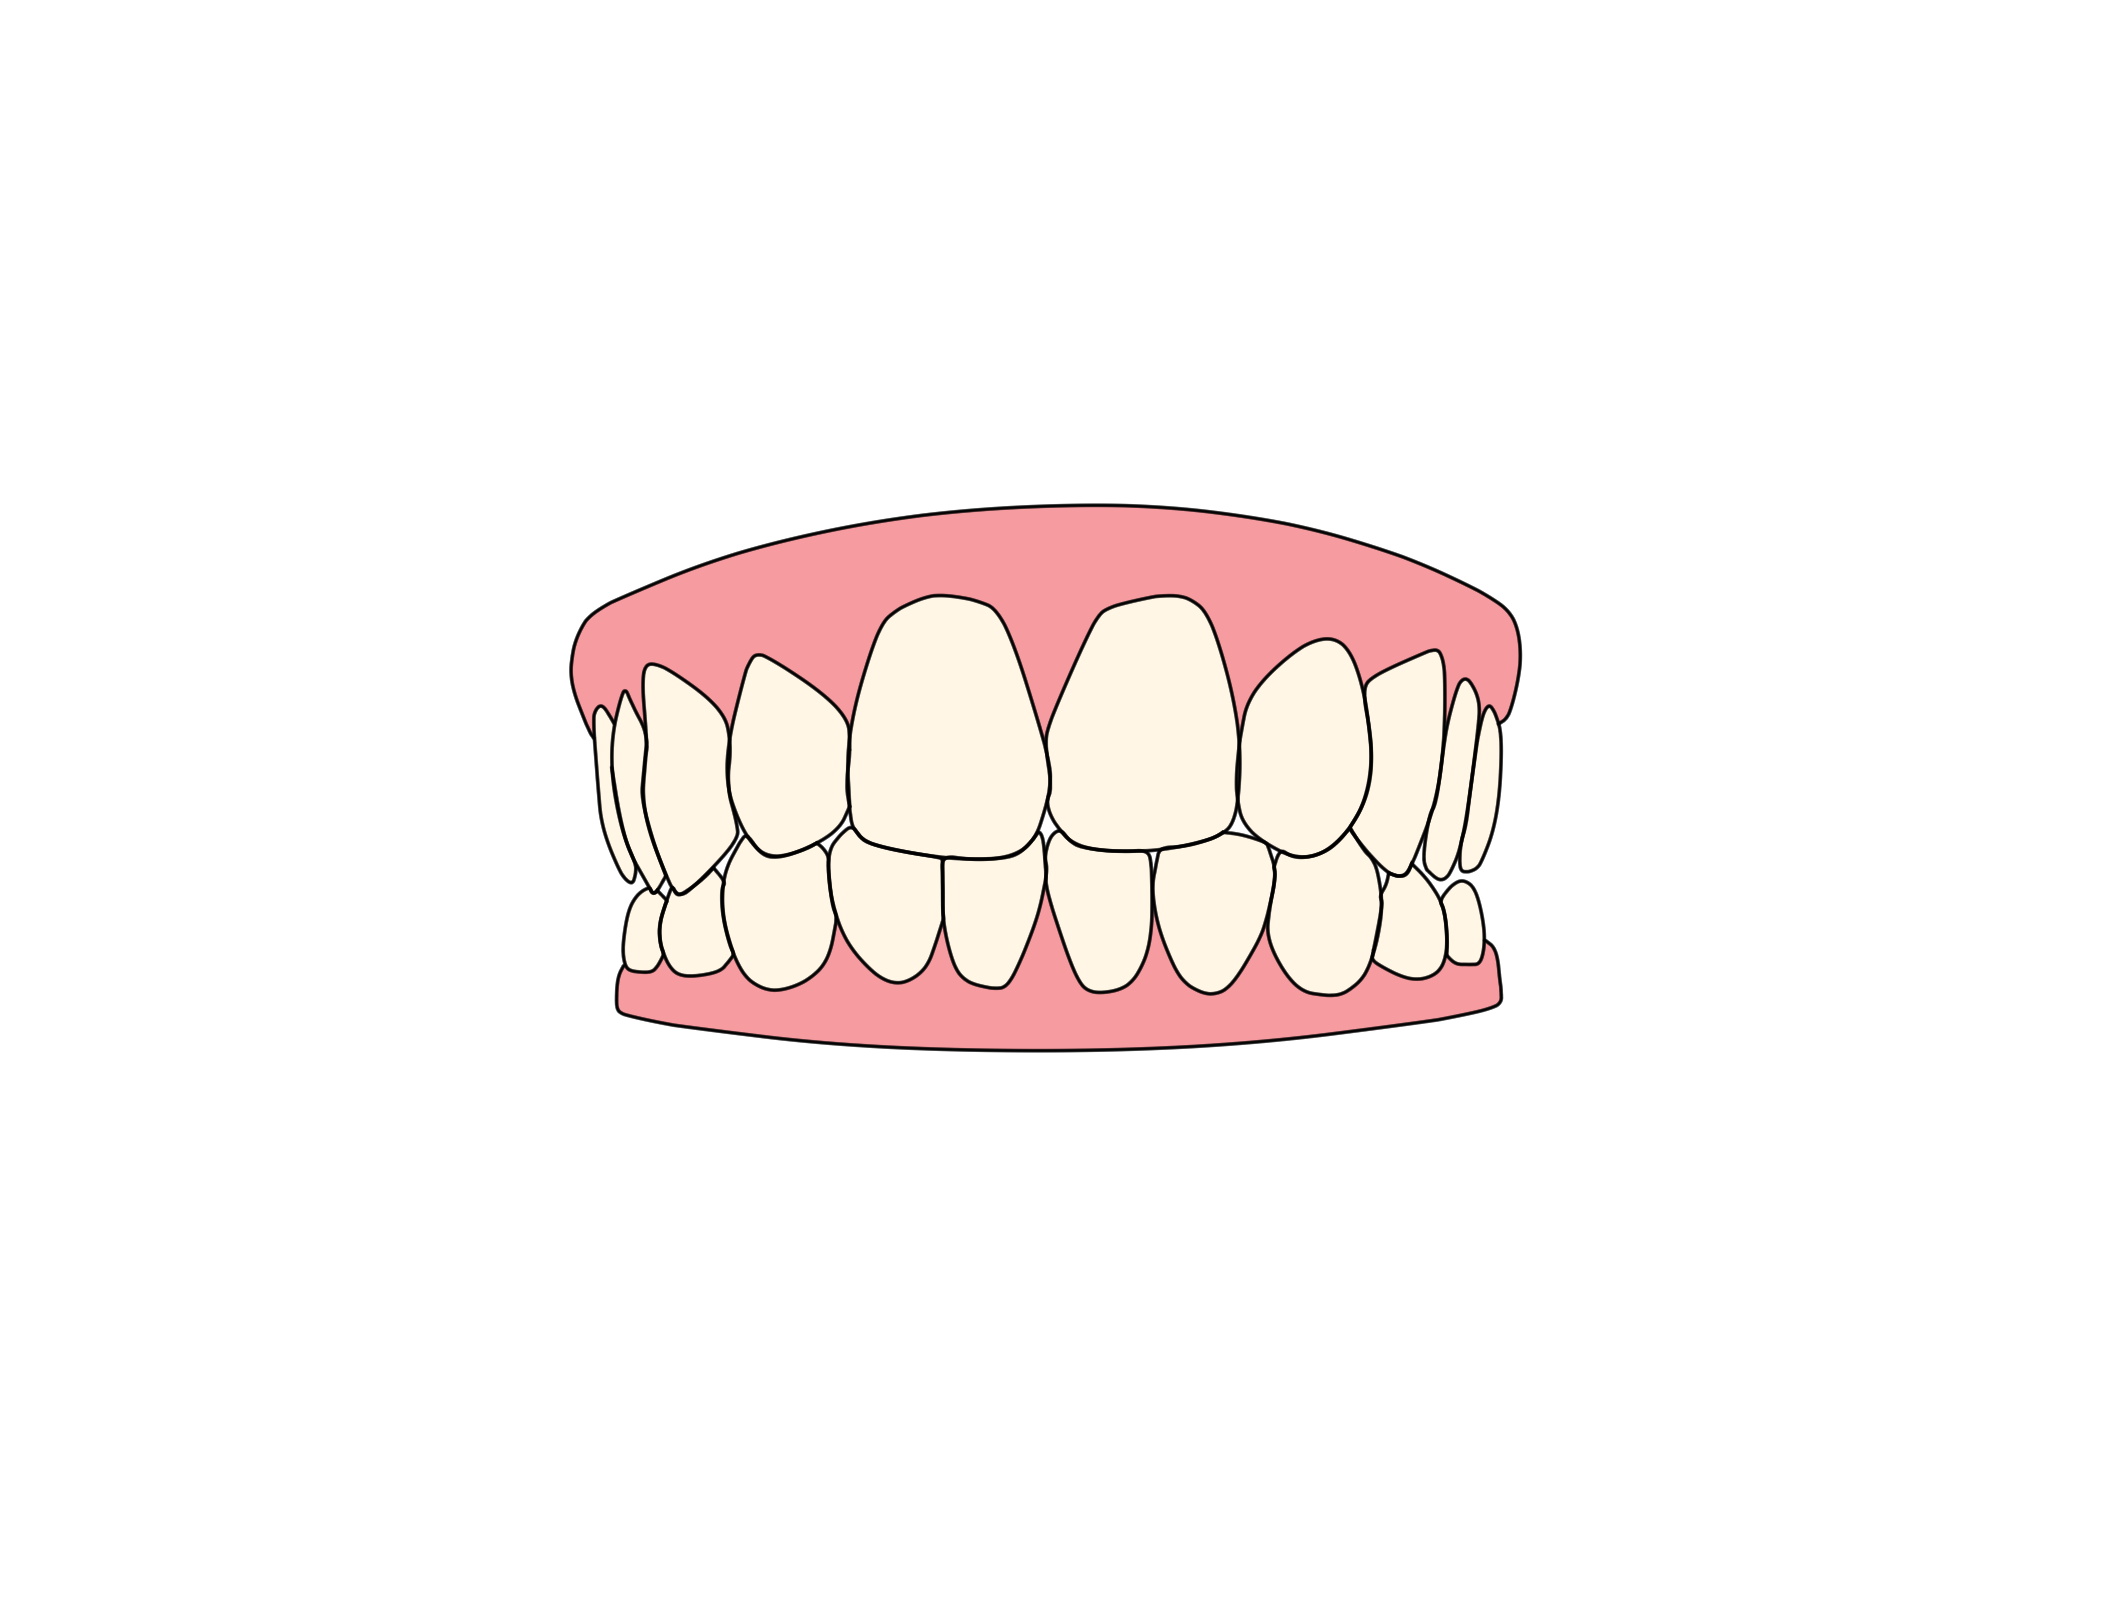
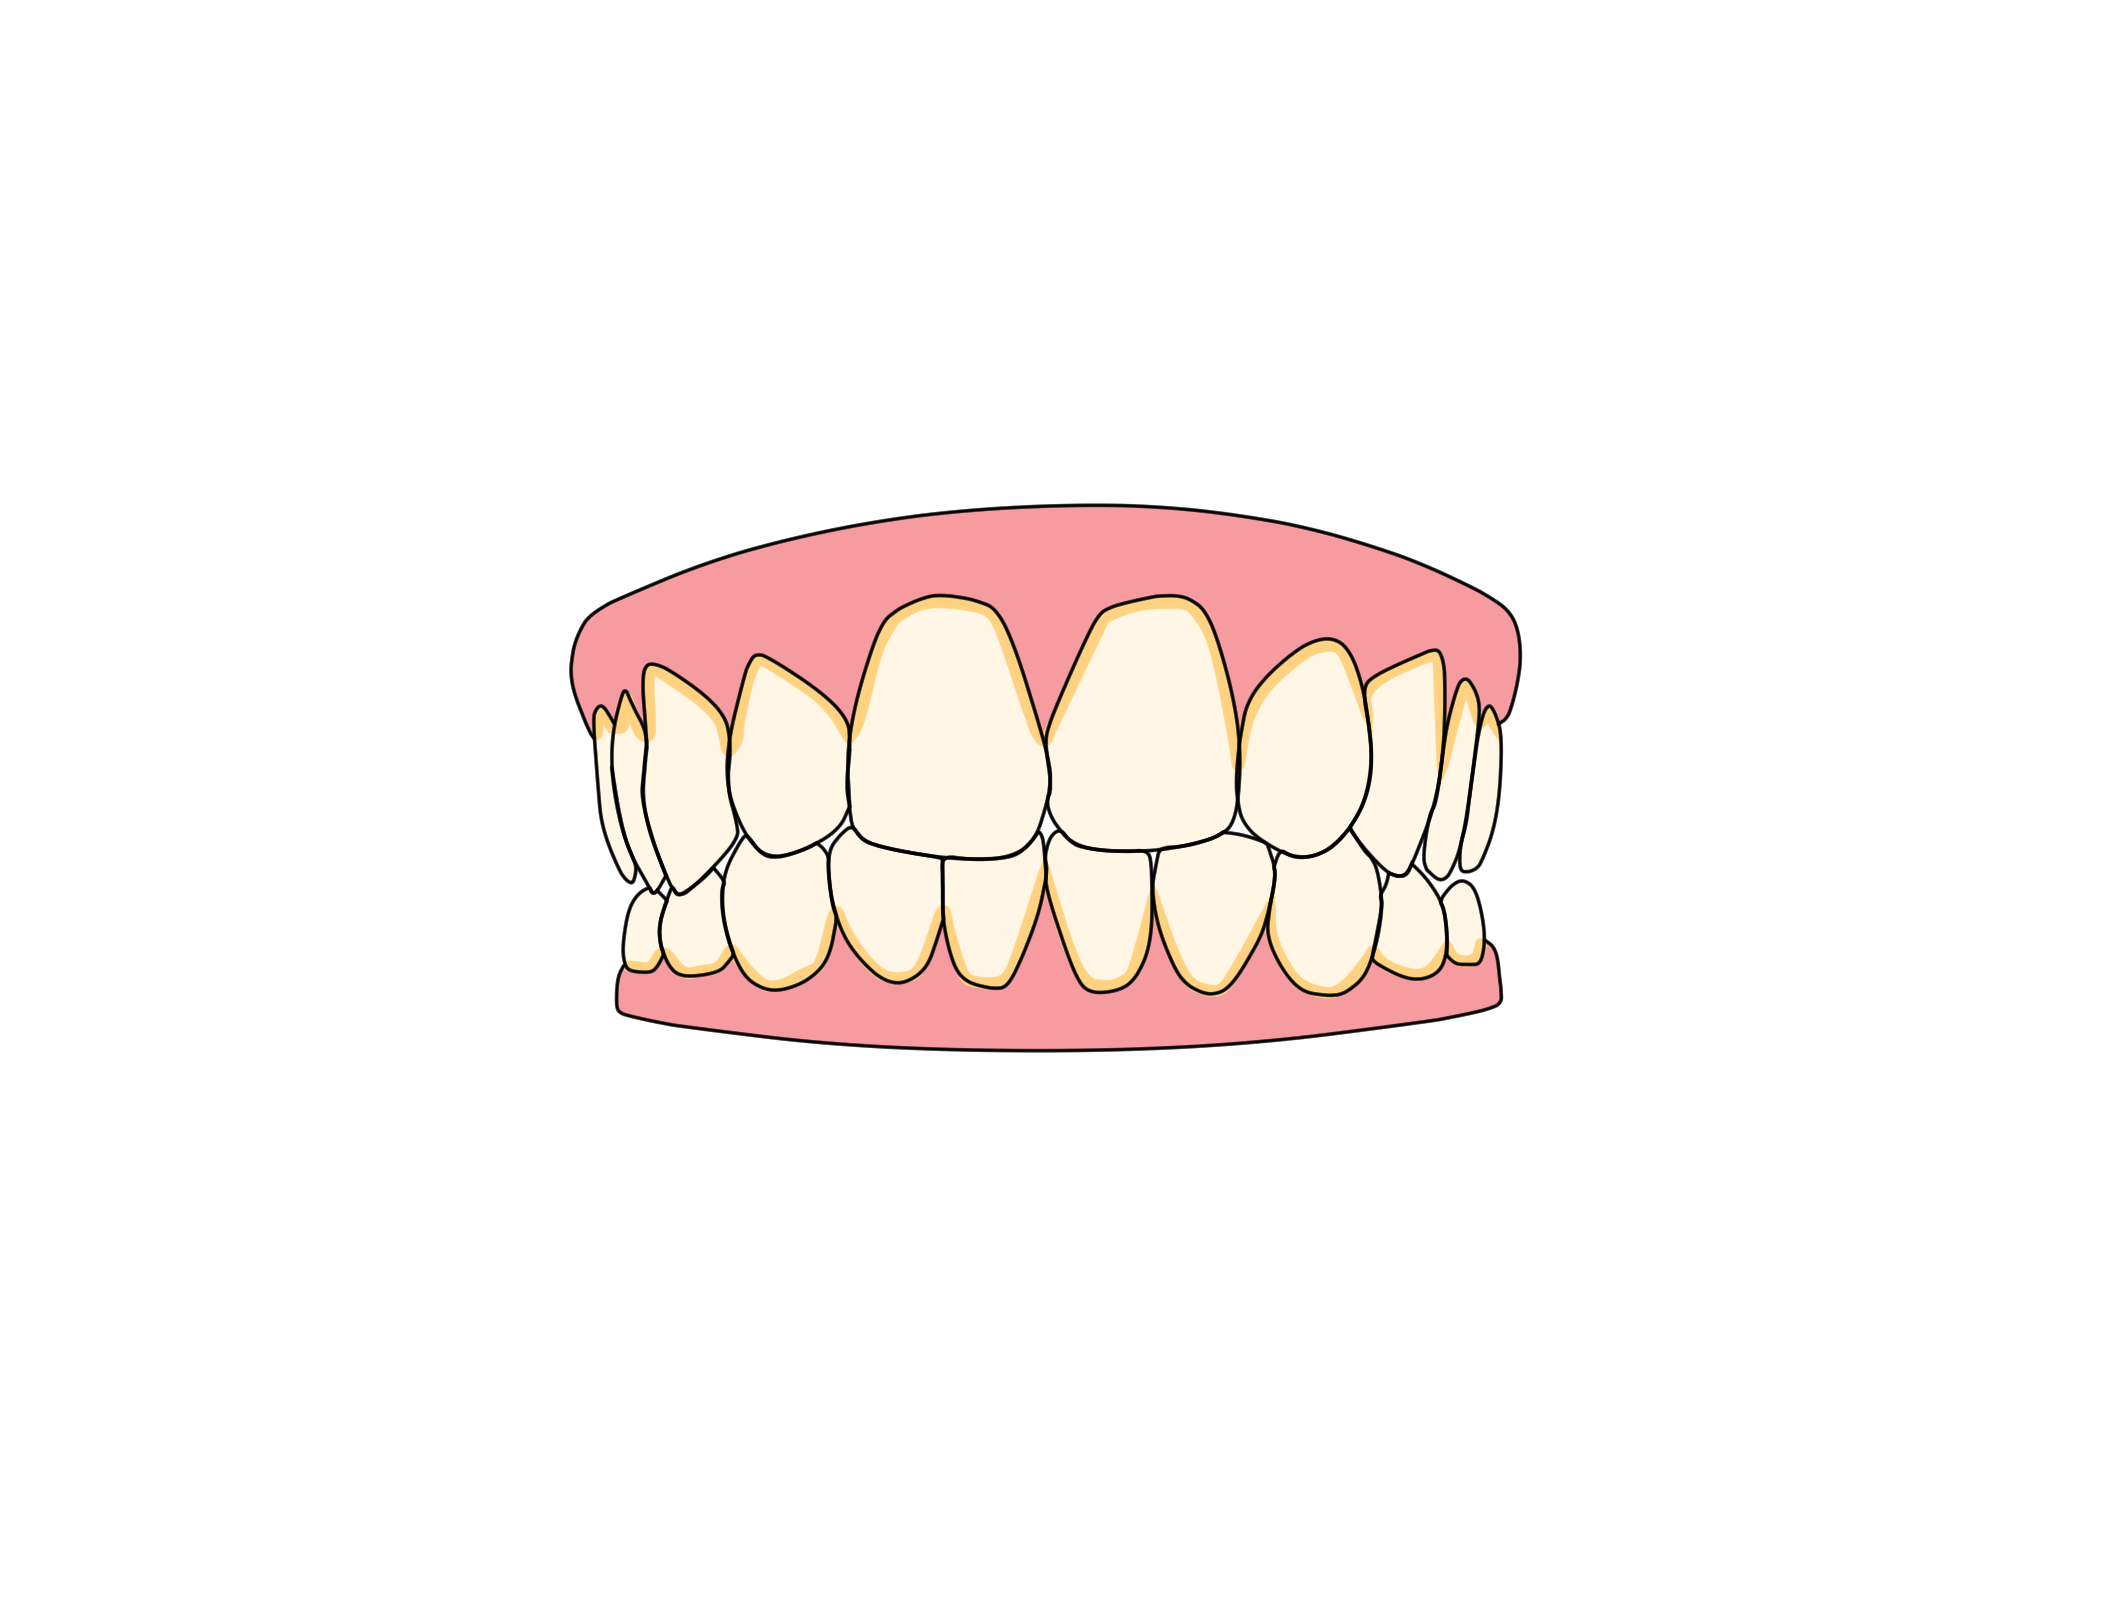
Gjorde ikonerna fyrkantiga och fixade karies

Changed region(s): [[0.2811, 0.5303, 0.6872, 0.6238], [0.4061, 0.3743, 0.7184, 0.4679], [0.2811, 0.4055, 0.4061, 0.4679]]

diff --git a/screens/screenKariesFlow.js b/screens/screenKariesFlow.js
@@ -8,22 +8,22 @@ export default function screenTeeth({ navigation }) {
   const { styles } = React.useContext(MyContext);
   const { kariesValue, setkariesValue } = React.useContext(MyContext);
 
-  let image = require('../assets/karies1.svg')
+  let image = require('../assets/karies1.png')
 
   if (kariesValue <= 5) {
-    image = require('../assets/karies1.svg')
+    image = require('../assets/karies1.png')
 
   } else if (kariesValue <= 10) {
 
-    image = require('../assets/karies2.svg')
+    image = require('../assets/karies2.png')
 
   } else if (kariesValue <= 15) {
 
-    image = require('../assets/karies3.svg')
+    image = require('../assets/karies3.png')
 
   } else if (kariesValue <= 20) {
 
-    image = require('../assets/karies4.svg')
+    image = require('../assets/karies4.png')
 
   }
 

diff --git a/screens/screenHome.js b/screens/screenHome.js
@@ -16,16 +16,6 @@ export default function screenHome({ navigation }) {
 
   return (
     <View style={styles.container}>
-      <View style={{ flex: 0.5 }}>
-        <Image source={defaultTeethImage} style={{
-          flex: 1,
-          justifyContent: 'center',
-          alignItems: 'center',
-          resizeMode: "contain",
-          width: 300,
-          margin: 50,
-        }} />
-      </View>
 
       <View style={{ flex: 1, flexDirection: "row" }}>
         <TouchableOpacity
@@ -44,7 +34,8 @@ export default function screenHome({ navigation }) {
           }}>
           <Image style={styles.icon} source={iconInflamFlow} />
         </TouchableOpacity>
-
+      </View>
+      <View style={{ flex: 1, flexDirection: "row" }}>
         <TouchableOpacity
           style={{ flex: 1 }}
 
